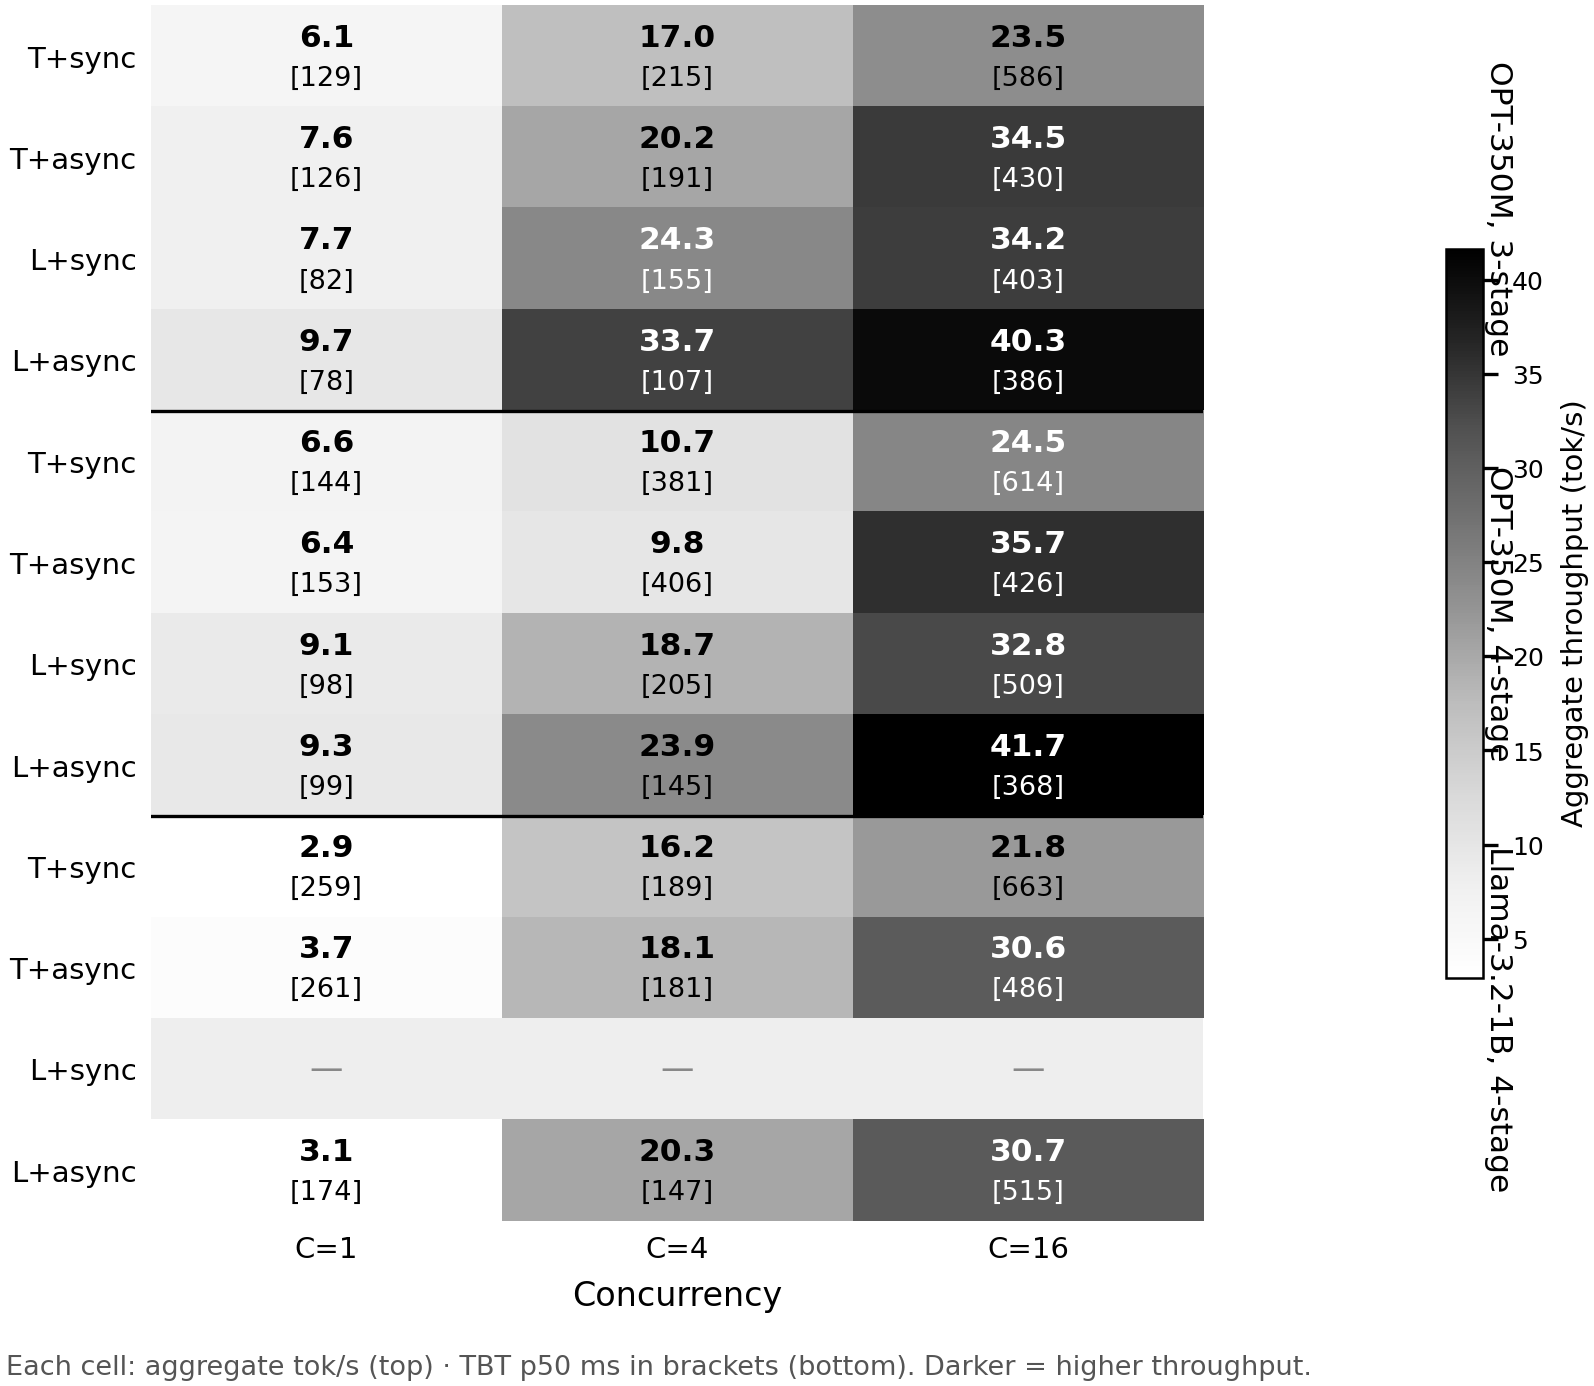
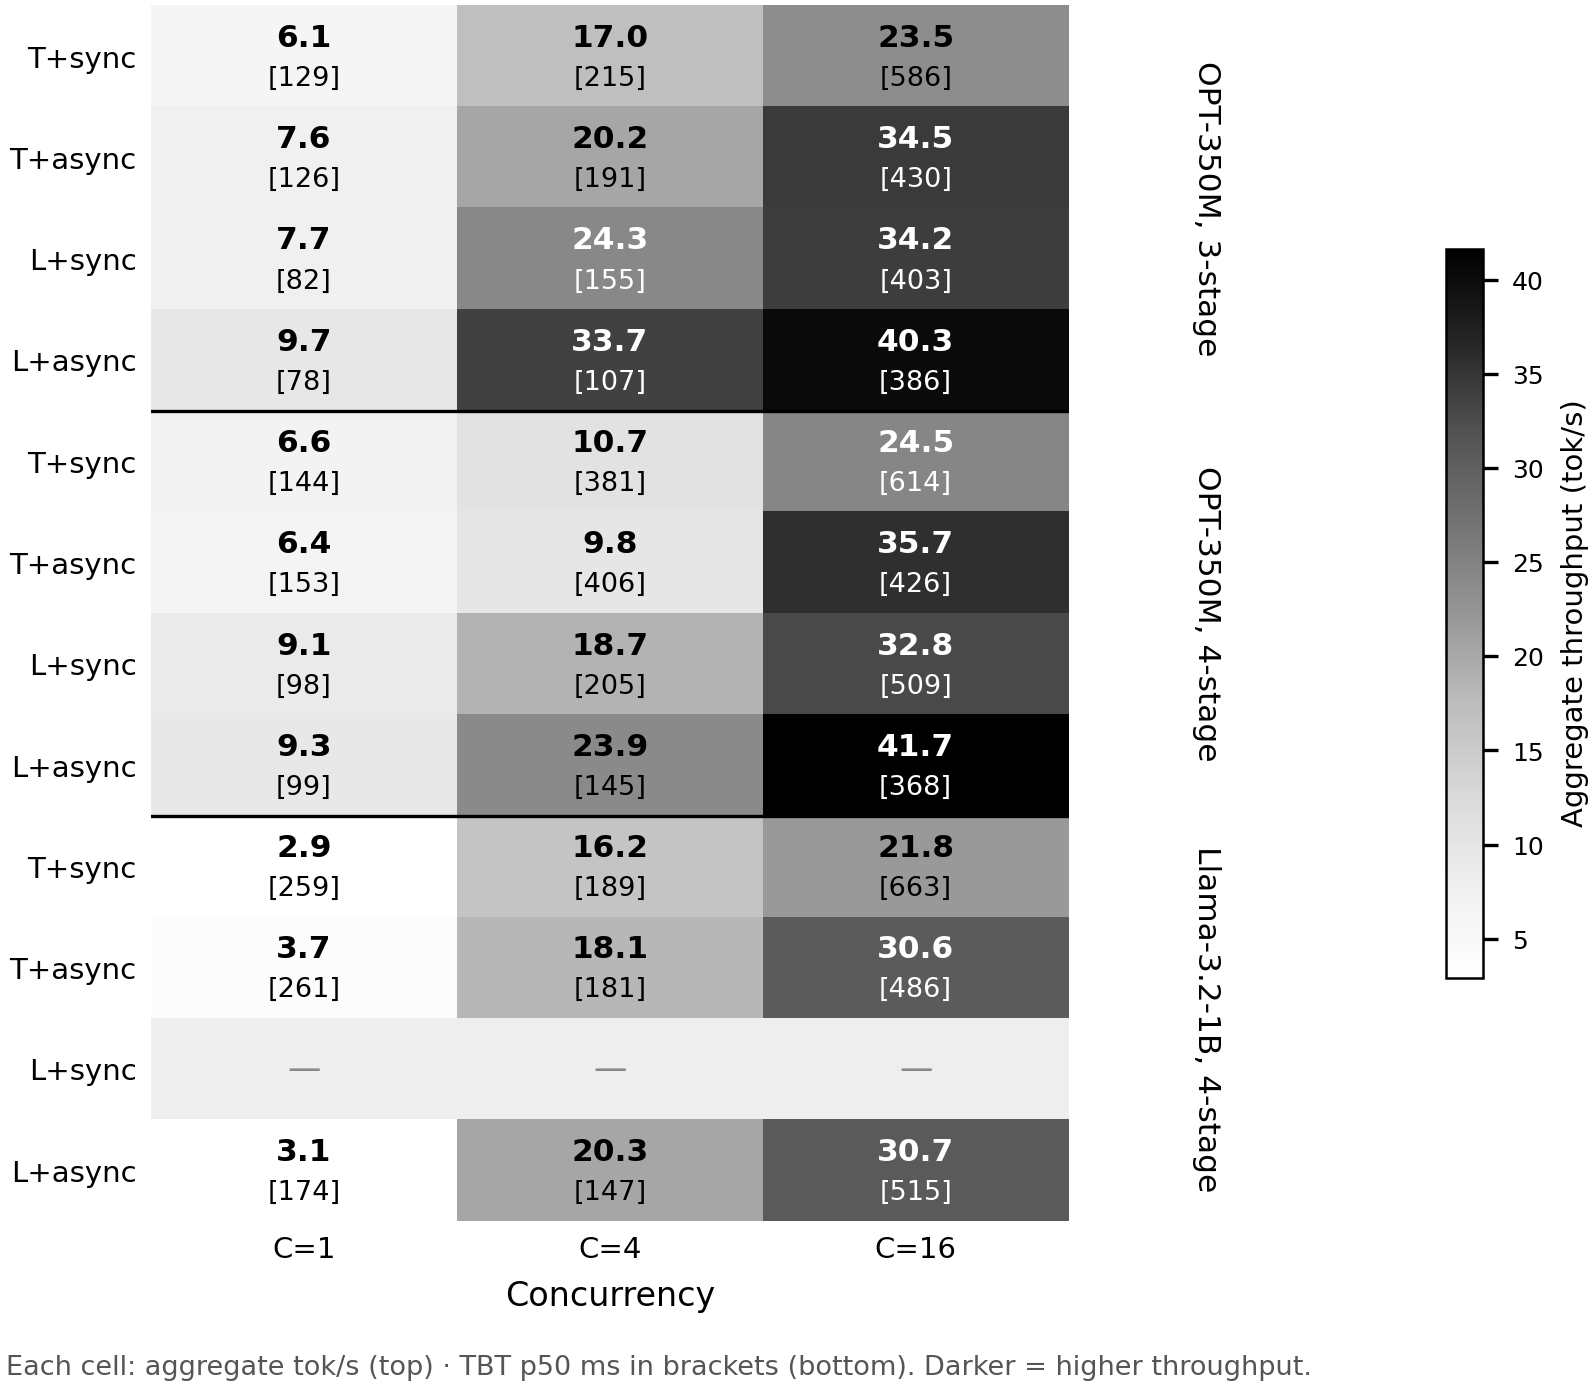
docs(paper): correct coordinator host (AGX Xavier, not Mac) + worker count (6, not 8)
Live verification via inventory.ini and /api/cluster:
  - coord_host: ax-1
  - device_class: jetson-agx-xavier
  - Python 3.9, CPU mode, IP 115.145.158.253

The Mac-hosted claim in §10.1 / §10.2 / §10.5 was a paper-side
placeholder from an earlier development setup; the actual fleet
runs Jetson-only — the AGX Xavier sits on the coordinator side
and a Mac is not part of the production deployment.

Active worker count is also 6, not 8 (on-5 and ao-2 are commented
out in inventory.ini), matching what §10.2 already reports for
the baseline cell sweep:
  - 5× Orin Nano 8GB (3 CUDA mode + 2 CPU mode)
  - 1× AGX Orin MAXN + jetson_clocks

Updated in 11 locations:
  - paper §1 intro, §2 background (implicit), §10.1 setup, §11 discussion (implicit)
  - paper abstract
  - main_kor.tex 4 mentions of "8-worker" + 1 mention of "Mac coordinator"

The Jetson-only deployment is now framed as a strength —
no x86 host required, the entire stack runs at the edge.

Pages: 8 (eng), 5 (kor) unchanged.

diff --git a/paper/main_kor.tex b/paper/main_kor.tex
@@ -131,7 +131,8 @@
       infeasible region 이 제거된다. 두 가지 runtime 기법 ---
       asynchronous mirror cache 와 asynchronous chain forwarding ---
       이 결합 최적화를 실 edge fleet 위에서 운용 가능하게 만든다.
-      8-worker Jetson fleet 에서 OPT-350M 24 cell 과 Llama-3.2-1B
+      Worker 6 대와 AGX Xavier coordinator 로 구성된 Jetson-only
+      fleet 에서 OPT-350M 24 cell 과 Llama-3.2-1B
       9 cell 을 측정한 결과, latency-optimal placement 가
       concurrency $C\!\geq\!4$ 의 모든 점에서 throughput-optimal
       placement 를 압도하였고, async chain 은 sync chain 대비
@@ -150,8 +151,9 @@
       back into the placement constraint. Two runtime mechanisms ---
       an asynchronous mirror cache and asynchronous chain forwarding
       with a \texttt{ResultReady} reverse channel --- make the joint
-      optimization viable on a real edge fleet. On an eight-worker
-      Jetson fleet covering 24 OPT-350M cells and a 9-cell
+      optimization viable on a real edge fleet. On a six-worker
+      Jetson fleet (with an AGX Xavier coordinator, Jetson-only
+      deployment) covering 24 OPT-350M cells and a 9-cell
       Llama-3.2-1B sub-matrix, latency-optimized placement dominates
       throughput-optimized placement at every point with $C\!\geq\!4$,
       and asynchronous chain adds $17$--$47\%$ throughput at $C\!=\!16$.
@@ -179,7 +181,8 @@ EdgeShard~\cite{zhang2024edgeshard} 는 DP 기반 latency-optimal layer
 placement 를, Jupiter~\cite{ye2025jupiter} 는 명시적 TBT-SLO 제약
 하의 throughput-optimal placement 를 추가했다. 그러나 이들 시스템은
 data center 에서 통용되던 두 가지 가정에 의존한다.
-첫째, \textbf{균질성}: 본 연구의 8-worker Jetson fleet 에서 Nano CPU
+첫째, \textbf{균질성}: 본 연구의 6-worker Jetson fleet (AGX Xavier
+coordinator 포함) 에서 Nano CPU
 는 Nano CUDA 대비 per-layer 시간이 약 $76\times$ 느리고, AGX Orin
 MAXN 은 Nano CUDA 대비 약 $1.36\times$ 빠르다 (OPT-350M seq=64
 forward). 균질한 fleet 에서 layer placement 는 단순한 반올림
@@ -219,7 +222,8 @@ performance 중 하나를 반드시 양보해야 한다.
   \item \texttt{ResultReady} reverse channel 을 갖춘 asynchronous
         chain forwarding. Chain length 와 무관하게 $C\!=\!16$ 에서
         $17$--$47\%$ 의 throughput 향상.
-  \item 8-worker Jetson fleet 라이브 측정. OPT-350M 24 cell +
+  \item 6-worker Jetson fleet (AGX Xavier coordinator 로 구성된
+        Jetson-only deployment) 라이브 측정. OPT-350M 24 cell +
         Llama-3.2-1B 9 cell --- $L\!\succ\!T$ dominance 가 두 model
         size 에 걸쳐 $C\!\geq\!4$ 에서 유지됨. Worker SIGKILL 시
         \sys{} 는 60/60 token 을 전달하는 반면 recovery 가 없는
@@ -399,13 +403,14 @@ correctness 는 유지되지만 (모든 token 이 일관되게 전달됨), heart
 \section{실  험}
 % =======================================================================
 
-\textbf{환경.} 8-worker Jetson fleet (Orin Nano 8\,GB 6 대,
-AGX Orin MAXN 1 대 + \texttt{jetson\_clocks} 적용, AGX Xavier 1 대)
-과 Mac coordinator 가 동일 LAN 상에 위치한다. OPT-350M (seq=64,
-fp16, no KV cache) 의 per-layer forward 시간을 라이브
-\texttt{ProfileLayers} 로 측정한 결과: Nano CPU $\sim$$84.7$\,ms,
-AGX CPU $\sim$$17.6$\,ms (legacy), Nano CUDA $\sim$$1.11$\,ms,
-AGX MAXN $\sim$$0.82$\,ms (그림~\ref{fig:tiers}). AGX MAXN 의 우위가
+\textbf{환경.} Worker 6 대 (Orin Nano 8\,GB 5 대 + AGX Orin MAXN
+1 대 + \texttt{jetson\_clocks} 적용) 와 coordinator 1 대 (AGX
+Xavier, CPU mode, Python 3.9) 가 동일 LAN 상에 위치하며 전체
+deployment 가 Jetson-only 로 구성된다 — Mac 등 x86 외부 호스트
+불필요. OPT-350M (seq=64, fp16, no KV cache) 의 per-layer forward
+시간을 라이브 \texttt{ProfileLayers} 로 측정한 결과: Nano CPU
+$\sim$$84.7$\,ms, AGX CPU $\sim$$17.6$\,ms (legacy), Nano CUDA
+$\sim$$1.11$\,ms, AGX MAXN $\sim$$0.82$\,ms (그림~\ref{fig:tiers}). AGX MAXN 의 우위가
 Nano CUDA 대비 $1.36\times$ 에 그치는 이유는 OPT-350M 의 per-block
 연산량 ($\sim$750\,M FLOPS) 이 작아 CUDA launch + Python/PyTorch
 overhead 가 dominate 하는 launch-bound regime 에 있기 때문이며,

diff --git a/paper/figures/make_matrix.py b/paper/figures/make_matrix.py
@@ -95,14 +95,19 @@ ax.set_yticklabels(row_labels)
 ax.set_xticks(range(len(COLS)))
 ax.set_xticklabels([f"C={c}" for c in COLS])
 
-# Group annotations on the right
+# Group annotations placed BETWEEN matrix and colorbar so they don't
+# collide with either. We use ax.annotate with xycoords='data' for the
+# x position (just past the last column) and let pad on the colorbar
+# leave space for them.
 groups = ["OPT-350M, 3-stage", "OPT-350M, 4-stage", "Llama-3.2-1B, 4-stage"]
 group_rows = [(0, 3), (4, 7), (8, 11)]
+group_x = len(COLS) - 0.5 + 0.45  # just past the right edge of the heatmap
 for grp, (top, bot) in zip(groups, group_rows):
     mid = (top + bot) / 2
     ax.text(
-        len(COLS) - 0.4 + 0.7, mid, grp,
-        ha="left", va="center", fontsize=7.5, rotation=-90,
+        group_x, mid, grp,
+        ha="center", va="center", fontsize=7.5, rotation=-90,
+        clip_on=False,
     )
 
 ax.set_xlim(-0.5, len(COLS) - 0.5)
@@ -111,8 +116,9 @@ ax.tick_params(axis="both", which="both", length=0)
 for spine in ax.spines.values():
     spine.set_visible(False)
 
-# Colorbar
-cbar = fig.colorbar(im, ax=ax, fraction=0.04, pad=0.18, shrink=0.6)
+# Colorbar — extra pad to leave room for the group annotations between
+# the heatmap and the colorbar.
+cbar = fig.colorbar(im, ax=ax, fraction=0.04, pad=0.28, shrink=0.6)
 cbar.set_label("Aggregate throughput (tok/s)", fontsize=7)
 cbar.ax.tick_params(labelsize=6)
 

diff --git a/paper/sections/introduction.tex b/paper/sections/introduction.tex
@@ -9,7 +9,8 @@ Jupiter~\cite{ye2025jupiter} pushed throughput-optimal placement with
 explicit Token-Between-Time (TBT) constraints.  Yet these systems
 were built around two assumptions inherited from the data center
 that the edge regime breaks.  First, \emph{homogeneity}: on our
-8-worker Jetson fleet, Nano CPU is $\sim$76$\times$ slower per
+6-worker Jetson fleet (plus an AGX Xavier coordinator), Nano CPU
+is $\sim$76$\times$ slower per
 layer than Nano CUDA, and AGX Orin MAXN is $1.36\times$ faster than
 Nano CUDA at OPT-350M seq=64 forward --- the CUDA-vs-CPU gap
 dominates and is what makes placement decisions structurally
@@ -69,7 +70,8 @@ We make the following contributions:
         channel, yielding a chain-length-independent
         17--47\% throughput gain at $C{=}16$ over synchronous
         chains (\S\ref{sec:design:async}).
-  \item Live measurement on an 8-worker Jetson fleet across
+  \item Live measurement on a 6-worker Jetson fleet (with an AGX
+        Xavier coordinator) across
         \emph{24} operating points on OPT-350M (two chain lengths
         $\times$ four architecture variants $\times$ three
         concurrency levels) plus a nine-cell 4-stage sub-matrix

diff --git a/paper/sections/evaluation.tex b/paper/sections/evaluation.tex
@@ -11,12 +11,13 @@
 
 \subsection{Setup}\label{sec:eval:setup}
 
-\textbf{Fleet.} Eight Jetson workers (six Orin Nano 8\,GB, one AGX
-Orin MAXN + \texttt{jetson\_clocks}, one AGX Xavier) plus a
-Mac-hosted coordinator on the same LAN. Live \texttt{ProfileLayers}
-on OPT-350M (seq$=$64, fp16, no KV): Nano CPU $\sim$84.7\,ms,
-AGX CPU $\sim$17.6\,ms (legacy), Nano CUDA $\sim$1.11\,ms,
-AGX MAXN $\sim$0.82\,ms. AGX MAXN is only $1.36\times$ faster than
+\textbf{Fleet.} Six Jetson workers (five Orin Nano 8\,GB, one AGX
+Orin MAXN + \texttt{jetson\_clocks}) plus one AGX Xavier acting as
+coordinator (CPU mode, Python 3.9) on the same LAN --- the entire
+deployment is Jetson-only, no x86 host required. Live
+\texttt{ProfileLayers} on OPT-350M (seq$=$64, fp16, no KV):
+Nano CPU $\sim$84.7\,ms, AGX CPU $\sim$17.6\,ms (legacy),
+Nano CUDA $\sim$1.11\,ms, AGX MAXN $\sim$0.82\,ms. AGX MAXN is only $1.36\times$ faster than
 Nano CUDA --- not the order-of-magnitude AGX FLOPS would predict ---
 because OPT-350M's $\sim$750\,M FLOPS/block leaves both CUDA devices
 launch-bound. The real heterogeneity is the $\sim$76$\times$

diff --git a/paper/sections/abstract.tex b/paper/sections/abstract.tex
@@ -13,7 +13,8 @@ state, and \emph{asynchronous chain forwarding} with a
 nested-response unwind we found silently serializes nominally
 pipelined chains.
 
-Live measurement on an eight-worker Jetson fleet covers \emph{24}
+Live measurement on a six-worker Jetson fleet (with an AGX Xavier
+coordinator, Jetson-only deployment) covers \emph{24}
 operating points on OPT-350M (two chain lengths $\times$ four
 architecture variants $\times$ three concurrency levels) plus a
 nine-cell 4-stage sub-matrix on a 3$\times$-larger Llama-3.2-1B. Latency-optimized placement dominates throughput-
